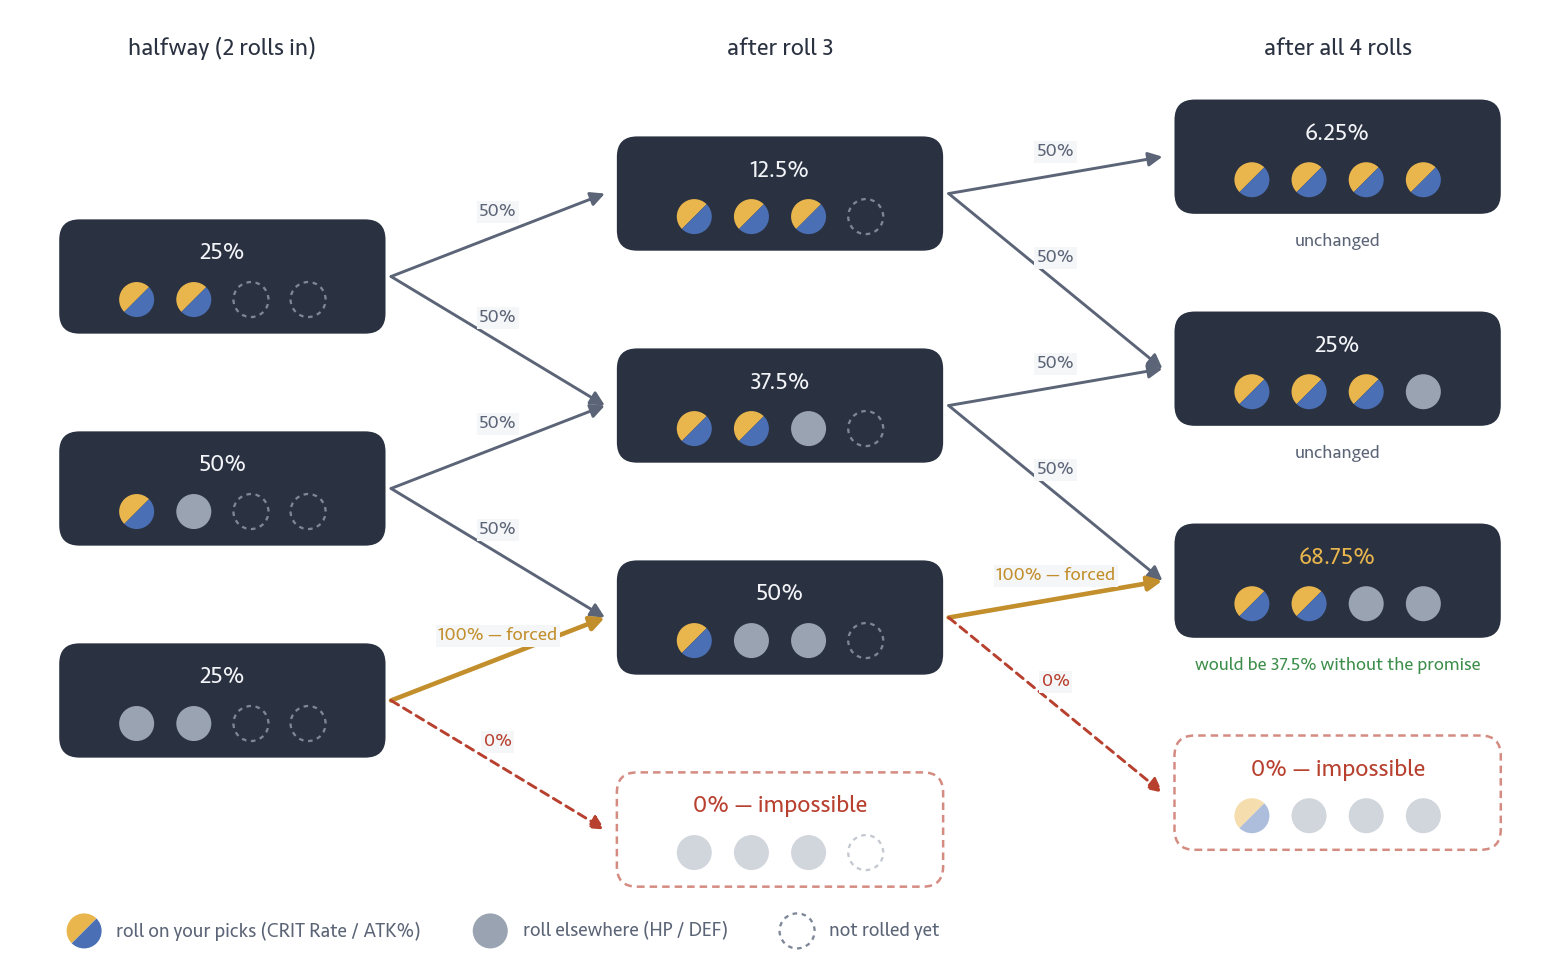
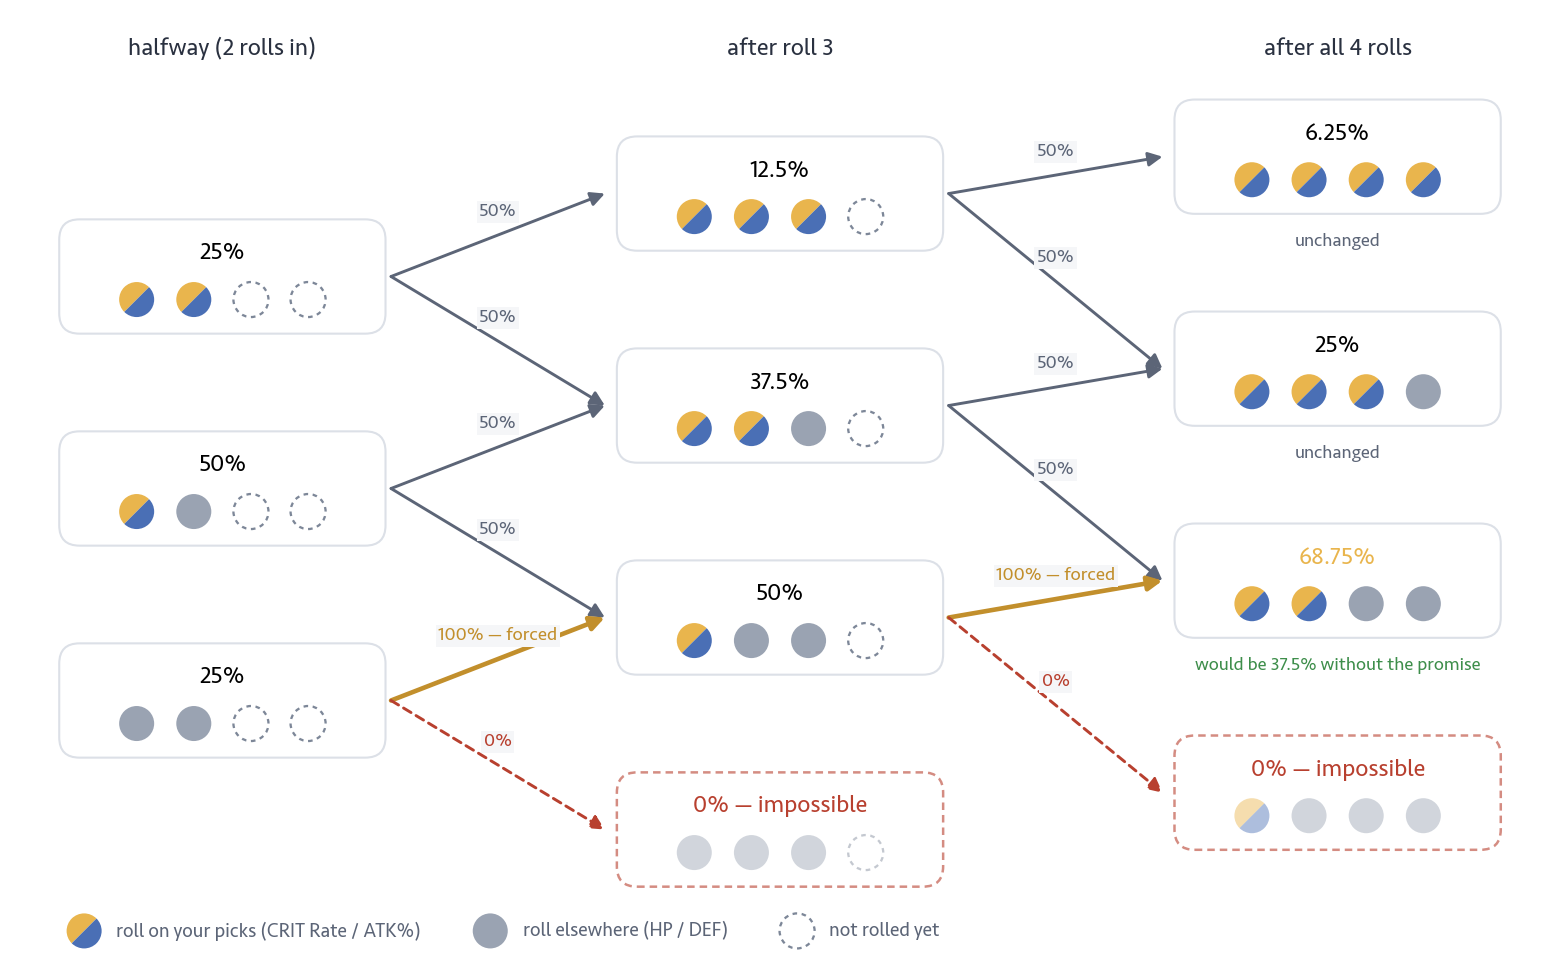
Fix light theme

diff --git a/infographic-template.html b/infographic-template.html
@@ -7,8 +7,14 @@
     --dot: #d8dce3;
     --ink: #2a3140;
     --ink-2: #343c4e;
-    --card-text: #f2f4f8;
-    --card-muted: #aab3c4;
+    --card: #ffffff;
+    --card-2: #eef1f6;
+    --card-line: #dce0e7;
+    --card-text: #2b3242;
+    --card-muted: #5c6577;
+    --card-accent: #c28f2c;
+    --card-shadow: 0 10px 30px rgba(30, 36, 50, .08);
+    --star-off: #b9c0cd;
     --text: #2b3242;
     --muted: #5c6577;
     --line: #dce0e7;
@@ -40,6 +46,14 @@
       --ink: #272e3c;
       --ink-2: #313949;
       --link: var(--gold);
+      --card: var(--ink);
+      --card-2: var(--ink-2);
+      --card-line: var(--ink-2);
+      --card-text: #f2f4f8;
+      --card-muted: #aab3c4;
+      --card-accent: var(--gold);
+      --card-shadow: 0 10px 30px rgba(0, 0, 0, .35);
+      --star-off: #55607a;
       --img-light: none;
       --img-dark: block;
     }
@@ -48,12 +62,18 @@
     --ground: #f5f6f8; --dot: #d8dce3; --text: #2b3242; --muted: #5c6577;
     --line: #dce0e7; --boost-bg: #e3f0e4; --kill-bg: #f6e4e0;
     --ink: #2a3140; --ink-2: #343c4e; --link: #8a6420;
+    --card: #ffffff; --card-2: #eef1f6; --card-line: #dce0e7;
+    --card-text: #2b3242; --card-muted: #5c6577; --card-accent: #c28f2c;
+    --card-shadow: 0 10px 30px rgba(30, 36, 50, .08); --star-off: #b9c0cd;
     --img-light: block; --img-dark: none;
   }
   :root[data-theme="dark"] {
     --ground: #1e222b; --dot: #2e3440; --text: #e7eaf1; --muted: #9aa3b5;
     --line: #333a48; --boost-bg: #24382a; --kill-bg: #3d2721;
     --ink: #272e3c; --ink-2: #313949; --link: var(--gold);
+    --card: var(--ink); --card-2: var(--ink-2); --card-line: var(--ink-2);
+    --card-text: #f2f4f8; --card-muted: #aab3c4; --card-accent: var(--gold);
+    --card-shadow: 0 10px 30px rgba(0, 0, 0, .35); --star-off: #55607a;
     --img-light: none; --img-dark: block;
   }
 
@@ -77,23 +97,24 @@
   h1, h2 { font-family: var(--display); text-wrap: balance; margin: 0; }
   p { margin: 0; }
   a, a:visited { color: var(--link); text-decoration-color: currentColor; text-underline-offset: 2px; }
-  .hero a, .hero a:visited, .v-card a, .v-card a:visited { color: var(--gold); }
+  .hero a, .hero a:visited, .v-card a, .v-card a:visited { color: var(--link); }
   .num { font-family: var(--mono); font-variant-numeric: tabular-nums; }
 
   /* ---- hero: styled like the in-game artifact panel ---- */
   .hero {
-    background: var(--ink);
+    background: var(--card);
     color: var(--card-text);
+    border: 1px solid var(--card-line);
     border-radius: 18px;
     padding: 34px 34px 30px;
-    box-shadow: 0 10px 30px rgba(30, 36, 50, .25);
+    box-shadow: var(--card-shadow);
   }
   .eyebrow {
     font-family: var(--display);
     font-size: .78rem;
     letter-spacing: .14em;
     text-transform: uppercase;
-    color: var(--gold);
+    color: var(--card-accent);
     margin-bottom: 14px;
   }
   .hero h1 { font-size: clamp(1.7rem, 4.5vw, 2.4rem); line-height: 1.15; }
@@ -105,7 +126,7 @@
     gap: 8px;
   }
   .stat-row {
-    background: var(--ink-2);
+    background: var(--card-2);
     border-radius: 10px;
     padding: 10px 14px;
     display: grid;
@@ -125,7 +146,7 @@
     display: grid; place-items: center;
     font-size: .8rem;
   }
-  .stat-row .star.off { background: transparent; border: 1.5px dashed #55607a; color: transparent; }
+  .stat-row .star.off { background: transparent; border: 1.5px dashed var(--star-off); color: transparent; }
   .stat-row .tag {
     grid-column: 2;
     font-size: .68rem;
@@ -133,7 +154,7 @@
     text-transform: uppercase;
     color: var(--card-muted);
   }
-  .stat-row.picked .tag { color: var(--gold); }
+  .stat-row.picked .tag { color: var(--card-accent); }
 
   /* ---- sections ---- */
   .section { display: flex; flex-direction: column; gap: 16px; }
@@ -236,8 +257,8 @@
     flex-direction: column;
     gap: 10px;
   }
-  .v-card.floor { background: var(--ink); color: var(--card-text); }
-  .v-card.jackpot { background: var(--ink); color: var(--card-text); border: 2px solid var(--gold); }
+  .v-card { background: var(--card); color: var(--card-text); border: 1px solid var(--card-line); }
+  .v-card.jackpot { border: 2px solid var(--gold); }
   .v-card .when {
     font-family: var(--display);
     font-size: .74rem;
@@ -245,11 +266,11 @@
     text-transform: uppercase;
     color: var(--card-muted);
   }
-  .v-card.jackpot .when { color: var(--gold); }
+  .v-card.jackpot .when { color: var(--card-accent); }
   .v-card h3 { font-family: var(--display); margin: 0; font-size: 1.2rem; }
   .v-card p { color: var(--card-muted); font-size: .93rem; }
   .v-card .pick { font-family: var(--display); font-size: 1rem; color: var(--card-text); }
-  .v-card .pick .star { color: var(--gold); }
+  .v-card .pick .star { color: var(--card-accent); }
 
   /* ---- footer ---- */
   .fine { color: var(--muted); font-size: .85rem; max-width: 46em; border-top: 1px solid var(--line); padding-top: 18px; }

diff --git a/reshape_common.py b/reshape_common.py
@@ -125,13 +125,13 @@ _THEMES = {
         TEXT='#2a3140', MUTED='#5c6577', LINE='#dce0e7',
         PAGE_BG='#f5f6f8', GOLD='#e9b54d', GOLD_DEEP='#c28f2c',
         BLUE='#4a6fb5', GRAY='#9aa3b2', GREEN='#3e8e4b', RED='#b8402f',
-        CARD='#2a3140', CARD_TEXT='#f2f4f8', PIP_EMPTY='#7d8798',
+        CARD='#ffffff', CARD_EDGE='#dce0e7', CARD_TEXT='#000000', PIP_EMPTY='#7d8798',
     ),
     'dark': dict(
         TEXT='#e7eaf1', MUTED='#9aa3b5', LINE='#333a48',
         PAGE_BG='#1e222b', GOLD='#e9b54d', GOLD_DEEP='#d9a53e',
         BLUE='#7095d6', GRAY='#7f8a9c', GREEN='#5fae6d', RED='#d0604d',
-        CARD='#313949', CARD_TEXT='#f2f4f8', PIP_EMPTY='#55607a',
+        CARD='#313949', CARD_EDGE='none', CARD_TEXT='#f2f4f8', PIP_EMPTY='#55607a',
     ),
 }
 THEMES = list(_THEMES)

diff --git a/make_image1.py b/make_image1.py
@@ -42,7 +42,7 @@ def draw_card(ax, x, y, picked, junk, prob, dead=False, note=None,
         ax.add_patch(FancyBboxPatch(
             (x - CARD_W / 2, y - CARD_H / 2), CARD_W, CARD_H,
             boxstyle='round,pad=0.12,rounding_size=0.22',
-            facecolor=rc.CARD, edgecolor='none', zorder=4))
+            facecolor=rc.CARD, edgecolor=rc.CARD_EDGE, zorder=4))
     pip_alpha = 0.45 if dead else 1.0
     x0 = x - PIP_GAP * (4 - 1) / 2
     for i in range(4):